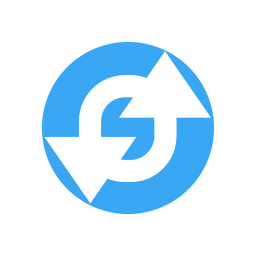
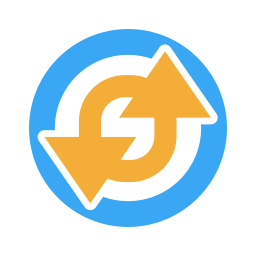
UIのブラッシュアップ

diff --git a/Runtime/ControlPanel.cs b/Runtime/ControlPanel.cs
@@ -28,32 +28,14 @@ namespace com.github.pandrabox.emoteprefab.runtime
 
 
     [CustomEditor(typeof(ControlPanel))]
-    public class ControlPanelEditor : Editor
+    public class ControlPanelEditor : EmotePrefabEditorLayout
     {
-        Texture2D Icon;
         public override void OnInspectorGUI()
         {
+            DrawIcoAndLogo();
             serializedObject.Update();
             try
             {
-                if (Icon == null) Icon = AssetDatabase.LoadAssetAtPath<Texture2D>(Config.LogoAndTitleIcon);
-                if (Icon != null)
-                {
-                    // スペースを挿入して上部に配置
-                    GUILayout.Space(5);
-
-                    // 中央に配置するための計算
-                    float windowWidth = EditorGUIUtility.currentViewWidth;
-                    float iconWidth = 311;
-                    float iconHeight = 67;
-
-                    GUILayout.BeginHorizontal();
-                    GUILayout.FlexibleSpace(); // 左側の余白
-                    GUILayout.Label(Icon, GUILayout.Width(iconWidth), GUILayout.Height(iconHeight)); // アイコン表示
-                    GUILayout.FlexibleSpace(); // 右側の余白
-                    GUILayout.EndHorizontal();
-                    GUILayout.Space(5);
-                }
                 var nowinstance = (ControlPanel)target;
                 var descriptor = nowinstance.transform.parent.GetComponent<VRCAvatarDescriptor>();
                 var enableProp = serializedObject.FindProperty("Enable");
@@ -87,7 +69,7 @@ namespace com.github.pandrabox.emoteprefab.runtime
                 if (!enableProp.boolValue) return;
                 var emotePrefabs = descriptor.transform.GetComponentsInChildren<EmotePrefab>(false).Where(e => e.Enable).ToArray();
                 var hasAFK = emotePrefabs.Where(e => e.IsAFK).Any();
-                title("EmotePrefabが使用する同期Bit数");
+                Title("EmotePrefabが使用する同期Bit数");
                 var bitProp = serializedObject.FindProperty("UseSyncBitNum");
                 var heightProp = serializedObject.FindProperty("UseHeightControl");
                 bitProp.intValue = Mathf.CeilToInt(Mathf.Log(emotePrefabs.Length, 2)) + (heightProp.boolValue ? 8 : 0 );
@@ -96,7 +78,7 @@ namespace com.github.pandrabox.emoteprefab.runtime
                 GUI.enabled = true;
 
 
-                title("Emote高さ調整機能");
+                Title("Emote高さ調整機能");
                 EditorGUILayout.PropertyField(heightProp);
                 if(heightProp.boolValue)
                 {
@@ -111,18 +93,18 @@ namespace com.github.pandrabox.emoteprefab.runtime
                     }
                 }
 
-                title("表情レイヤ");
+                Title("表情レイヤ");
                 EditorGUILayout.PropertyField(serializedObject.FindProperty("FaxialExpressionLayer"));
 
 
-                title("既存Action上の全Animationを登録");
+                Title("既存Action上の全Animationを登録");
                 EditorGUILayout.PropertyField(serializedObject.FindProperty("LegacySupport"));
 
-                title("EmotePrefabをExpressionメニューのなるべく上に表示");
+                Title("EmotePrefabをExpressionメニューのなるべく上に表示");
                 EditorGUILayout.PropertyField(serializedObject.FindProperty("PreferFirst"));
 
                 GUILayout.Box("", GUILayout.ExpandWidth(true), GUILayout.Height(1));
-                title("便利ツール");
+                Title("便利ツール");
                 using(new EditorGUILayout.HorizontalScope())
                 {
                     GUILayout.Label("EmotePrefab一括生成");
@@ -136,56 +118,6 @@ namespace com.github.pandrabox.emoteprefab.runtime
             {
                 serializedObject.ApplyModifiedProperties();
             }
-        }
-
-        private static void title(string t)
-        {
-            GUILayout.BeginHorizontal();
-
-            var lineRect = GUILayoutUtility.GetRect(0, EditorGUIUtility.singleLineHeight, GUILayout.ExpandWidth(true), GUILayout.ExpandHeight(true));
-            int leftBorderSize = 5;
-            var leftRect =new Rect(lineRect.x,lineRect.y, leftBorderSize, lineRect.height);
-            var rightRect = new Rect(lineRect.x + leftBorderSize, lineRect.y, lineRect.width - leftBorderSize, lineRect.height);
-            Color leftColor = new Color32(0xF4, 0xAD, 0x39, 0xFF);  // f4ad39
-            Color rightColor = new Color32(0x39, 0xA7, 0xF4, 0xFF); // 39a7f4
-
-            // Draw the rectangles
-            EditorGUI.DrawRect(leftRect, leftColor);
-            EditorGUI.DrawRect(rightRect, rightColor);
-
-            // Add the text in the rightRect
-            var textStyle = new GUIStyle(EditorStyles.label)
-            {
-                alignment = TextAnchor.MiddleLeft,
-                padding = new RectOffset(5, 0, 0, 0), 
-                fontStyle = FontStyle.Bold,
-                normal = { textColor = Color.black }, 
-            };
-
-            GUI.Label(rightRect, t, textStyle);
-
-            GUILayout.EndHorizontal();
-        }
-
-        private static GUIStyle TitleStyle()
-        {
-            GUIStyle style = new GUIStyle(GUI.skin.label);
-            style.normal.background = MakeTex(1, 1, new Color(57f / 255f, 167f / 255f, 244f / 255f, 1f));
-            style.normal.textColor = Color.black;
-            style.fontStyle = FontStyle.Bold;
-            return style;
-        }
-        private static Texture2D MakeTex(int width, int height, Color color)
-        {
-            Color[] pix = new Color[width * height];
-            for (int i = 0; i < pix.Length; ++i)
-            {
-                pix[i] = color;
-            }
-            Texture2D result = new Texture2D(width, height);
-            result.SetPixels(pix);
-            result.Apply();
-            return result;
         }
     }
 }

diff --git a/Runtime/EmotePrefabEditorLayout.cs b/Runtime/EmotePrefabEditorLayout.cs
@@ -1,0 +1,64 @@
+#if UNITY_EDITOR
+
+using UnityEditor;
+using UnityEngine;
+using System.Collections.Generic;
+using VRC.SDK3.Dynamics.PhysBone.Components;
+using System.Linq;
+using VRC.SDK3.Avatars.Components;
+using static com.github.pandrabox.emoteprefab.runtime.Generic;
+using UnityEngine.UIElements;
+using System.IO;
+
+namespace com.github.pandrabox.emoteprefab.runtime
+{
+    public class EmotePrefabEditorLayout : Editor
+    {
+        public static Texture2D _emotePrefabIcoAndLogo;
+
+        protected void DrawIcoAndLogo()
+        {
+            if (_emotePrefabIcoAndLogo == null) _emotePrefabIcoAndLogo = AssetDatabase.LoadAssetAtPath<Texture2D>(Config.LogoAndTitleIcon);
+            if (_emotePrefabIcoAndLogo != null)
+            {
+                float iconWidth = 186;
+                float iconHeight = 40;
+
+                GUILayout.BeginHorizontal();
+                GUILayout.FlexibleSpace();
+                GUILayout.Label(_emotePrefabIcoAndLogo, GUILayout.Width(iconWidth), GUILayout.Height(iconHeight));
+                GUILayout.FlexibleSpace();
+                GUILayout.EndHorizontal();
+                GUILayout.Space(4);
+            }
+        }
+
+        protected static void Title(string t)
+        {
+            GUILayout.BeginHorizontal();
+
+            var lineRect = GUILayoutUtility.GetRect(0, EditorGUIUtility.singleLineHeight, GUILayout.ExpandWidth(true), GUILayout.ExpandHeight(true));
+            int leftBorderSize = 5;
+            var leftRect = new Rect(lineRect.x, lineRect.y, leftBorderSize, lineRect.height);
+            var rightRect = new Rect(lineRect.x + leftBorderSize, lineRect.y, lineRect.width - leftBorderSize, lineRect.height);
+            Color leftColor = new Color32(0xF4, 0xAD, 0x39, 0xFF);
+            Color rightColor = new Color32(0x39, 0xA7, 0xF4, 0xFF);
+
+            EditorGUI.DrawRect(leftRect, leftColor);
+            EditorGUI.DrawRect(rightRect, rightColor);
+
+            var textStyle = new GUIStyle(EditorStyles.label)
+            {
+                alignment = TextAnchor.MiddleLeft,
+                padding = new RectOffset(5, 0, 0, 0),
+                fontStyle = FontStyle.Bold,
+                normal = { textColor = Color.black },
+            };
+
+            GUI.Label(rightRect, t, textStyle);
+
+            GUILayout.EndHorizontal();
+        }
+    }
+}
+#endif

diff --git a/Runtime/EmoteFolder.cs b/Runtime/EmoteFolder.cs
@@ -17,5 +17,57 @@ namespace com.github.pandrabox.emoteprefab.runtime
         public string FolderName;
         public Texture2D Icon;
     }
+
+
+
+    [CustomEditor(typeof(EmoteFolder))]
+    public class EmoteFolderEditor : EmotePrefabEditorLayout
+    {
+        public override void OnInspectorGUI()
+        {
+            DrawIcoAndLogo();
+            serializedObject.Update();
+            try
+            {
+                using (new EditorGUILayout.HorizontalScope())
+                {
+                    var IconProp = serializedObject.FindProperty("Icon");
+                    using (new EditorGUILayout.VerticalScope())
+                    {
+                        EditorGUILayout.PropertyField(serializedObject.FindProperty("FolderName"));
+                        EditorGUILayout.PropertyField(serializedObject.FindProperty("Sort"));
+                        EditorGUILayout.PropertyField(serializedObject.FindProperty("AutoFolderMode"));
+                        EditorGUILayout.PropertyField(serializedObject.FindProperty("Icon"));
+
+                    }
+
+                    if (IconProp != null)
+                    {
+                        var tex = IconProp.objectReferenceValue as Texture2D;
+                        if (tex != null && !IconProp.hasMultipleDifferentValues)
+                        {
+                            var size = EditorGUIUtility.singleLineHeight * 4;
+                            var margin = 4;
+                            var withMargin = new Vector2(margin + size, margin + size);
+
+                            var rect = GUILayoutUtility.GetRect(withMargin.x, withMargin.y, GUILayout.ExpandWidth(false),
+                                GUILayout.ExpandHeight(true));
+                            rect.x += margin;
+                            rect.y = rect.y + rect.height / 2 - size / 2;
+                            rect.width = size;
+                            rect.height = size;
+
+                            GUI.Box(rect, new GUIContent(), "flow node 1");
+                            GUI.DrawTexture(rect, tex);
+                        }
+                    }
+                }
+            }
+            finally
+            {
+                serializedObject.ApplyModifiedProperties();
+            }
+        }
+    }
 }
 #endif

diff --git a/Runtime/EmotePrefab.cs b/Runtime/EmotePrefab.cs
@@ -95,10 +95,11 @@ namespace com.github.pandrabox.emoteprefab.runtime
     }
 
     [CustomEditor(typeof(EmotePrefab))]
-    public class EmotePrefabEditor : Editor
+    public class EmotePrefabEditor : EmotePrefabEditorLayout
     {
         public override void OnInspectorGUI()
         {
+            DrawIcoAndLogo();
             var nowInstance = (EmotePrefab)target;
             nowInstance.RestorePhysBones();
             var exMode = nowInstance.UnitMotions.FirstOrDefault().Mode;
